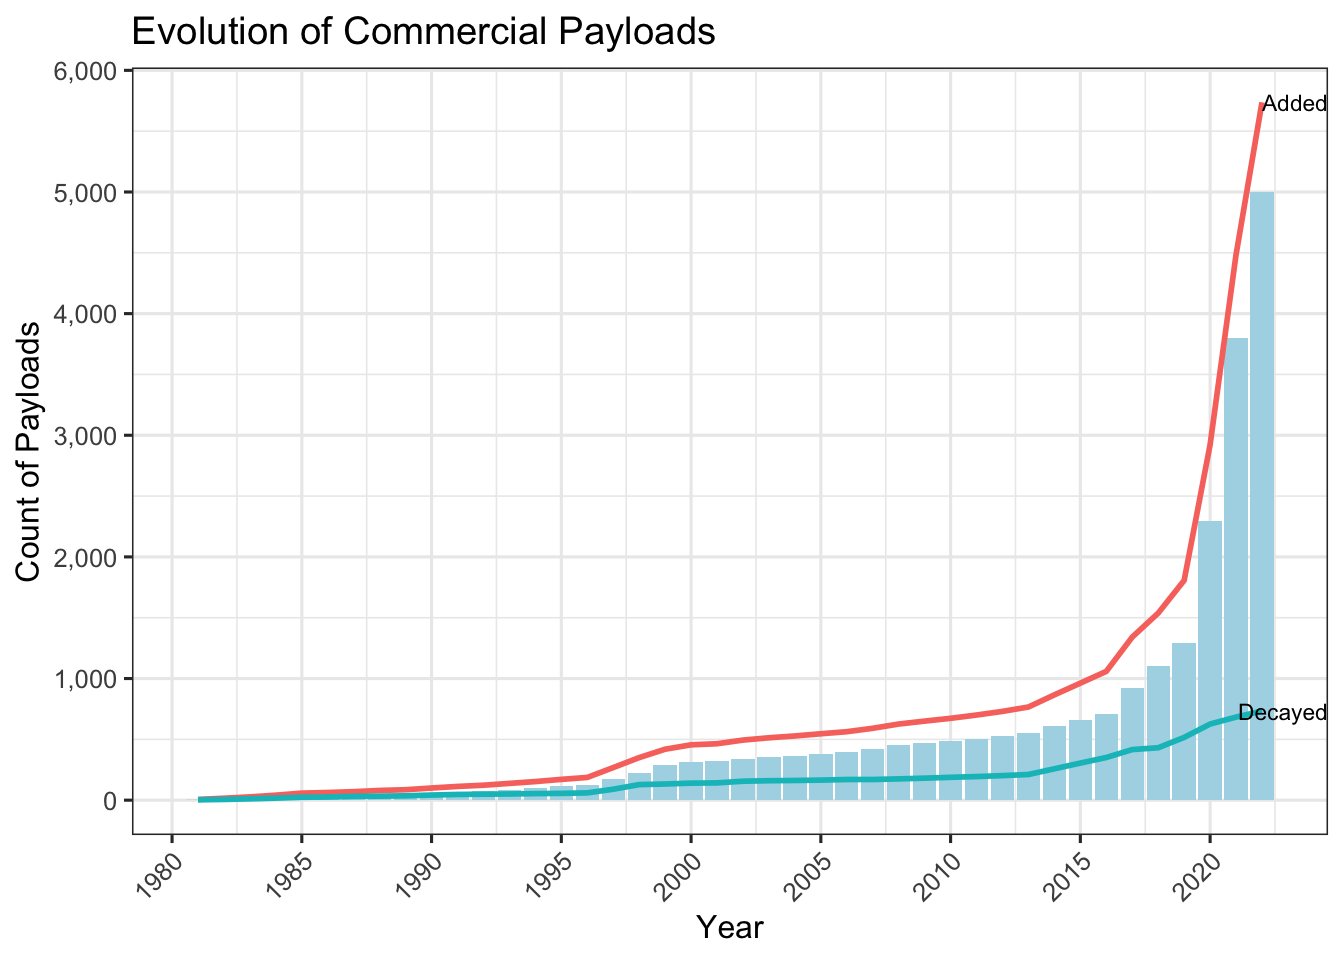
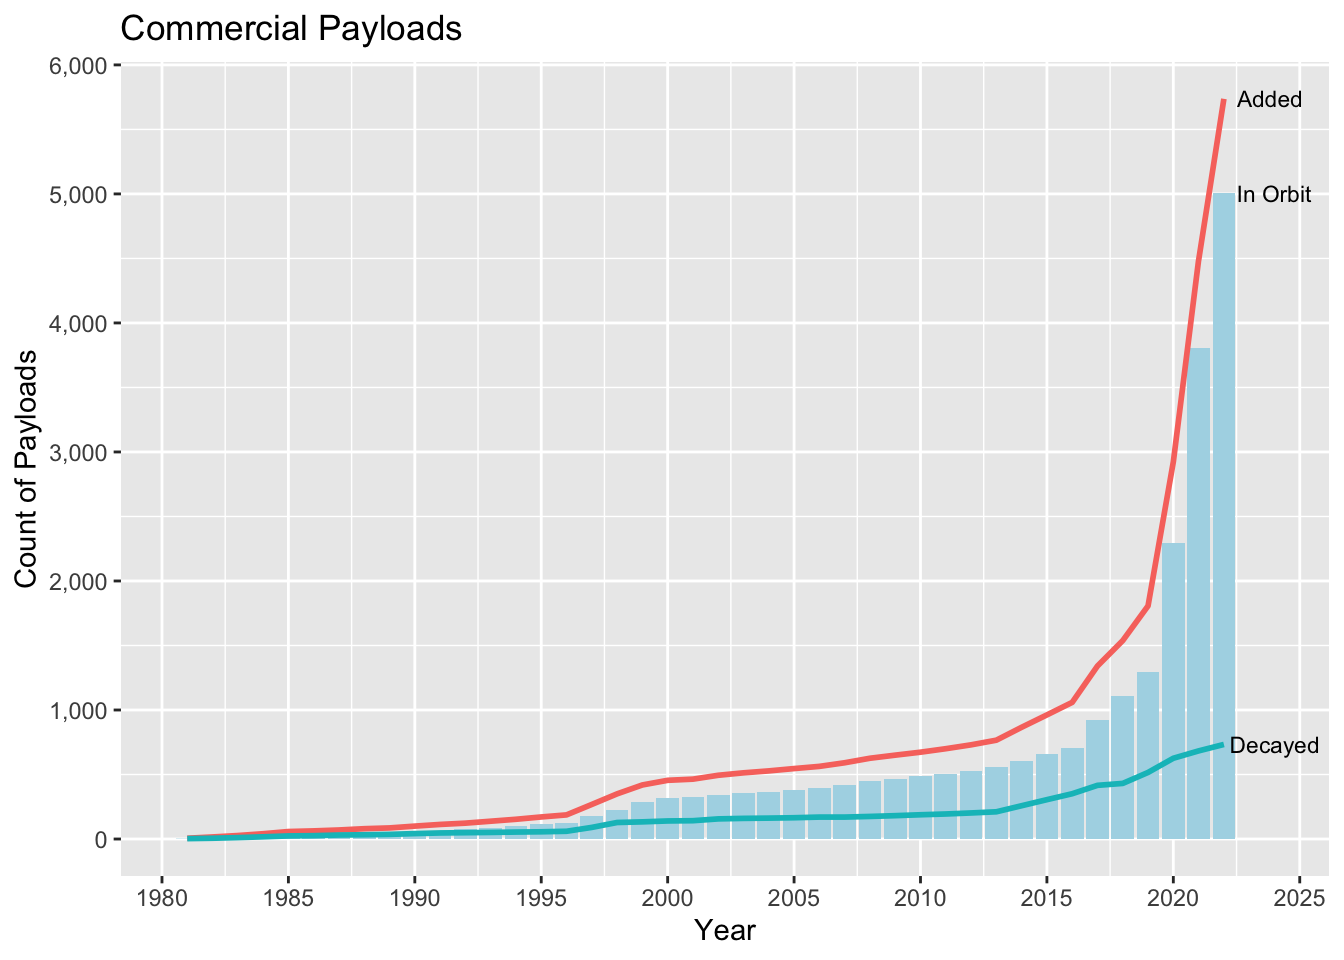
Updated stacat

diff --git a/2022/low-earth-orbits-exploration/index.html b/2022/low-earth-orbits-exploration/index.html
@@ -387,12 +387,12 @@ leo &lt;- leo %&gt;% rename(own = State, JCAT = `#JCAT`)
 ## Read the celestrack catalog as well - this is useful to get periods
 
 dt &lt;- data.table::fread(&quot;~/data/satcat_celestrack.csv&quot;, fill = TRUE, sep = &quot;,&quot;,
-                        colClasses = list(factor=c(&quot;LAUNCH_SITE&quot;, &quot;OBJECT_TYPE&quot;, &quot;OWNER&quot;, &quot;ORBIT_CENTER&quot;, &quot;ORBIT_TYPE&quot;, &quot;OBJECT_NAME&quot;, &quot;OPS_STATUS_CODE&quot;, &quot;DATA_STATUS_CODE&quot;    )))
+                        colClasses = list(factor=c(&quot;LAUNCH_SITE&quot;, &quot;OBJECT_TYPE&quot;, &quot;OWNER&quot;, &quot;ORBIT_CENTER&quot;, &quot;ORBIT_TYPE&quot;, &quot;OBJECT_NAME&quot;, &quot;OPS_STATUS_CODE&quot;, &quot;DATA_STATUS_CODE&quot;	)))
 
 gbd &lt;- as_tibble(dt)</code></pre>
 <pre class="r"><code>#dt &lt;- data.table::fread(&quot;https://celestrak.com/pub/satcat.csv&quot;, fill = TRUE)
 dt &lt;- data.table::fread(&quot;~/data/satcat_celestrack.csv&quot;, fill = TRUE, 
-                        colClasses = list(factor=c(&quot;LAUNCH_SITE&quot;, &quot;OBJECT_TYPE&quot;, &quot;OWNER&quot;, &quot;ORBIT_CENTER&quot;, &quot;ORBIT_TYPE&quot;, &quot;OBJECT_NAME&quot;, &quot;OPS_STATUS_CODE&quot;, &quot;DATA_STATUS_CODE&quot;    )))
+                        colClasses = list(factor=c(&quot;LAUNCH_SITE&quot;, &quot;OBJECT_TYPE&quot;, &quot;OWNER&quot;, &quot;ORBIT_CENTER&quot;, &quot;ORBIT_TYPE&quot;, &quot;OBJECT_NAME&quot;, &quot;OPS_STATUS_CODE&quot;, &quot;DATA_STATUS_CODE&quot;	)))
 
 leo &lt;- as_tibble(dt)
 
@@ -423,122 +423,122 @@ SU = &quot;Sun&quot;,
 UR = &quot;Uranus&quot;,
 VE = &quot;Venus&quot;)
 
-leo$own = recode_factor(leo$OWNER, AB = &quot;Arab Satellite Communications Organization&quot;,
-ABS=    &quot;Asia Broadcast&quot;,
-AC= &quot;ASIASAT&quot;,
-ALG=    &quot;Algeria&quot;,
-ANG=    &quot;Angola&quot;,
-ARGN=   &quot;Argentina&quot;,
-ASRA=   &quot;Austria&quot;,
-AUS=    &quot;Australia&quot;,
-AZER=   &quot;Azerbaijan&quot;,
-BEL=    &quot;Belgium&quot;,
-BELA=   &quot;Belarus&quot;,
-BERM=   &quot;Bermuda&quot;,
-BGD=    &quot;Bangladesh&quot;,
-BHUT=   &quot;Bhutan&quot;,
-BOL=    &quot;Bolivia&quot;,
-BRAZ=   &quot;Brazil&quot;,
-BUL=    &quot;Bulgaria&quot;,
-CA= &quot;Canada&quot;,
-CHBZ=   &quot;China/Brazil&quot;,
-CHLE=   &quot;Chile&quot;,
-CIS=    &quot;Russia&quot;,
-COL=    &quot;Colombia&quot;,
-CRI=    &quot;Costa Rica&quot;,
-CZCH=   &quot;Czech Republic&quot;,
-DEN=    &quot;Denmark&quot;,
-ECU=    &quot;Ecuador&quot;,
-EGYP=   &quot;Egypt&quot;,
-ESA=    &quot;European Space Agency&quot;,
-ESRO=   &quot;European Space Research Org&quot;,
-EST=    &quot;Estonia&quot;,
-EUME=   &quot;EUMETSAT&quot;,
-EUTE=   &quot;EUTELSAT&quot;,
-FGER=   &quot;France/Germany&quot;,
-FIN=    &quot;Finland&quot;,
-FR= &quot;France&quot;,
-FRIT=   &quot;France/Italy&quot;,
-GER=    &quot;Germany&quot;,
-GHA=    &quot;Ghana&quot;,
-GLOB=   &quot;Globalstar&quot;,
-GREC=   &quot;Greece&quot;,
-GRSA=   &quot;Greece/Saudi Arabia&quot;,
-GUAT=   &quot;Guatemala&quot;,
-HUN=    &quot;Hungary&quot;,
-IM= &quot;INMARSAT&quot;,
-IND=    &quot;India&quot;,
-INDO=   &quot;Indonesia&quot;,
-IRAN=   &quot;Iran&quot;,
-IRAQ=   &quot;Iraq&quot;,
-IRID=   &quot;Iridium&quot;,
-ISRA=   &quot;Israel&quot;,
-ISRO=   &quot;Indian Space Research Org&quot;,
-ISS=    &quot;ISS&quot;,
-IT= &quot;Italy&quot;,
-ITSO=   &quot;INTELSAT&quot;,
-JPN=    &quot;Japan&quot;,
-KAZ=    &quot;Kazakhstan&quot;,
-KEN=    &quot;Kenya&quot;,
-LAOS=   &quot;Laos&quot;,
-LKA=    &quot;Sri Lanka&quot;,
-LTU=    &quot;Lithuania&quot;,
-LUXE=   &quot;Luxembourg&quot;,
-MA= &quot;Morroco&quot;,
-MALA=   &quot;Malaysia&quot;,
-MEX=    &quot;Mexico&quot;,
-MMR=    &quot;Myanmar&quot;,
-MNG=    &quot;Mongolia&quot;,
-MUS=    &quot;Mauritius&quot;,
-NATO=   &quot;NATO&quot;,
-NETH=   &quot;Netherlands&quot;,
-NICO=   &quot;New ICO&quot;,
-NIG=    &quot;Nigeria&quot;,
-NKOR=   &quot;North Korea&quot;,
-NOR=    &quot;Norway&quot;,
-NPL=    &quot;Nepal&quot;,
-NZ= &quot;New Zealand&quot;,
-O3B=    &quot;O3b Networks&quot;,
-ORB=    &quot;ORBCOMM&quot;,
-PAKI=   &quot;Pakistan&quot;,
-PERU=   &quot;Peru&quot;,
-POL=    &quot;Poland&quot;,
-POR=    &quot;Portugal&quot;,
-PRC=    &quot;China&quot;,
-PRY=    &quot;Paraguay&quot;,
-PRES=   &quot;China/ESA&quot;,
-QAT=    &quot;Qatar&quot;,
-RASC=   &quot;RascomStar-QAF&quot;,
-ROC=    &quot;Taiwan&quot;,
-ROM=    &quot;Romania&quot;,
-RP= &quot;Philippines&quot;,
-RWA=    &quot;Rwanda&quot;,
-SAFR=   &quot;South Africa&quot;,
-SAUD=   &quot;Saudi Arabia&quot;,
-SDN=    &quot;Sudan&quot;,
-SEAL=   &quot;Sea Launch&quot;,
-SES=    &quot;SES&quot;,
-SGJP=   &quot;Singapore/Japan&quot;,
-SING=   &quot;Singapore&quot;,
-SKOR=   &quot;SouthKorea&quot;,
-SPN=    &quot;Spain&quot;,
-STCT=   &quot;Singapore/Taiwan&quot;,
-SVN=    &quot;Slovenia&quot;,
-SWED=   &quot;Sweden&quot;,
-SWTZ=   &quot;Switzerland&quot;,
-TBD=    &quot;TBD&quot;,
-THAI=   &quot;Thailand&quot;,
-TMMC=   &quot;Turkmenistan/Monaco&quot;,
-TUN=    &quot;Tunisia&quot;,
-TURK=   &quot;Turkey&quot;,
-UAE=    &quot;UAE&quot;,
-UK= &quot;United Kingdom&quot;,
-UKR=    &quot;Ukraine&quot;,
-UNK=    &quot;Unknown&quot;,
-URY=    &quot;Uruguay&quot;,
-US= &quot;United States&quot;,
-USBZ=   &quot;United States/Brazil&quot;,
-VENZ=   &quot;Venezuela&quot;,
+leo$own = recode_factor(leo$OWNER, AB =	&quot;Arab Satellite Communications Organization&quot;,
+ABS=	&quot;Asia Broadcast&quot;,
+AC=	&quot;ASIASAT&quot;,
+ALG=	&quot;Algeria&quot;,
+ANG=	&quot;Angola&quot;,
+ARGN=	&quot;Argentina&quot;,
+ASRA=	&quot;Austria&quot;,
+AUS=	&quot;Australia&quot;,
+AZER=	&quot;Azerbaijan&quot;,
+BEL=	&quot;Belgium&quot;,
+BELA=	&quot;Belarus&quot;,
+BERM=	&quot;Bermuda&quot;,
+BGD=	&quot;Bangladesh&quot;,
+BHUT=	&quot;Bhutan&quot;,
+BOL=	&quot;Bolivia&quot;,
+BRAZ=	&quot;Brazil&quot;,
+BUL=	&quot;Bulgaria&quot;,
+CA=	&quot;Canada&quot;,
+CHBZ=	&quot;China/Brazil&quot;,
+CHLE=	&quot;Chile&quot;,
+CIS=	&quot;Russia&quot;,
+COL=	&quot;Colombia&quot;,
+CRI=	&quot;Costa Rica&quot;,
+CZCH=	&quot;Czech Republic&quot;,
+DEN=	&quot;Denmark&quot;,
+ECU=	&quot;Ecuador&quot;,
+EGYP=	&quot;Egypt&quot;,
+ESA=	&quot;European Space Agency&quot;,
+ESRO=	&quot;European Space Research Org&quot;,
+EST=	&quot;Estonia&quot;,
+EUME=	&quot;EUMETSAT&quot;,
+EUTE=	&quot;EUTELSAT&quot;,
+FGER=	&quot;France/Germany&quot;,
+FIN=	&quot;Finland&quot;,
+FR=	&quot;France&quot;,
+FRIT=	&quot;France/Italy&quot;,
+GER=	&quot;Germany&quot;,
+GHA=	&quot;Ghana&quot;,
+GLOB=	&quot;Globalstar&quot;,
+GREC=	&quot;Greece&quot;,
+GRSA=	&quot;Greece/Saudi Arabia&quot;,
+GUAT=	&quot;Guatemala&quot;,
+HUN=	&quot;Hungary&quot;,
+IM=	&quot;INMARSAT&quot;,
+IND=	&quot;India&quot;,
+INDO=	&quot;Indonesia&quot;,
+IRAN=	&quot;Iran&quot;,
+IRAQ=	&quot;Iraq&quot;,
+IRID=	&quot;Iridium&quot;,
+ISRA=	&quot;Israel&quot;,
+ISRO=	&quot;Indian Space Research Org&quot;,
+ISS=	&quot;ISS&quot;,
+IT=	&quot;Italy&quot;,
+ITSO=	&quot;INTELSAT&quot;,
+JPN=	&quot;Japan&quot;,
+KAZ=	&quot;Kazakhstan&quot;,
+KEN=	&quot;Kenya&quot;,
+LAOS=	&quot;Laos&quot;,
+LKA=	&quot;Sri Lanka&quot;,
+LTU=	&quot;Lithuania&quot;,
+LUXE=	&quot;Luxembourg&quot;,
+MA=	&quot;Morroco&quot;,
+MALA=	&quot;Malaysia&quot;,
+MEX=	&quot;Mexico&quot;,
+MMR=	&quot;Myanmar&quot;,
+MNG=	&quot;Mongolia&quot;,
+MUS=	&quot;Mauritius&quot;,
+NATO=	&quot;NATO&quot;,
+NETH=	&quot;Netherlands&quot;,
+NICO=	&quot;New ICO&quot;,
+NIG=	&quot;Nigeria&quot;,
+NKOR=	&quot;North Korea&quot;,
+NOR=	&quot;Norway&quot;,
+NPL=	&quot;Nepal&quot;,
+NZ=	&quot;New Zealand&quot;,
+O3B=	&quot;O3b Networks&quot;,
+ORB=	&quot;ORBCOMM&quot;,
+PAKI=	&quot;Pakistan&quot;,
+PERU=	&quot;Peru&quot;,
+POL=	&quot;Poland&quot;,
+POR=	&quot;Portugal&quot;,
+PRC=	&quot;China&quot;,
+PRY=	&quot;Paraguay&quot;,
+PRES=	&quot;China/ESA&quot;,
+QAT=	&quot;Qatar&quot;,
+RASC=	&quot;RascomStar-QAF&quot;,
+ROC=	&quot;Taiwan&quot;,
+ROM=	&quot;Romania&quot;,
+RP=	&quot;Philippines&quot;,
+RWA=	&quot;Rwanda&quot;,
+SAFR=	&quot;South Africa&quot;,
+SAUD=	&quot;Saudi Arabia&quot;,
+SDN=	&quot;Sudan&quot;,
+SEAL=	&quot;Sea Launch&quot;,
+SES=	&quot;SES&quot;,
+SGJP=	&quot;Singapore/Japan&quot;,
+SING=	&quot;Singapore&quot;,
+SKOR=	&quot;SouthKorea&quot;,
+SPN=	&quot;Spain&quot;,
+STCT=	&quot;Singapore/Taiwan&quot;,
+SVN=	&quot;Slovenia&quot;,
+SWED=	&quot;Sweden&quot;,
+SWTZ=	&quot;Switzerland&quot;,
+TBD=	&quot;TBD&quot;,
+THAI=	&quot;Thailand&quot;,
+TMMC=	&quot;Turkmenistan/Monaco&quot;,
+TUN=	&quot;Tunisia&quot;,
+TURK=	&quot;Turkey&quot;,
+UAE=	&quot;UAE&quot;,
+UK=	&quot;United Kingdom&quot;,
+UKR=	&quot;Ukraine&quot;,
+UNK=	&quot;Unknown&quot;,
+URY=	&quot;Uruguay&quot;,
+US=	&quot;United States&quot;,
+USBZ=	&quot;United States/Brazil&quot;,
+VENZ=	&quot;Venezuela&quot;,
 VTNM= &quot;Vietnam&quot;)
 
 
@@ -749,9 +749,10 @@ leo %&gt;%
   geom_line(aes(y=cum_added, color = &quot;added&quot;), size = 1, show.legend = F) +
   geom_line(aes(y=cum_decayed, color = &quot;decayed&quot;), size = 1, show.legend = F) +
   
-  labs(title = &quot;Evolution of Commercial Payloads&quot;, x = &#39;Year&#39;, y = &quot;Count of Payloads&quot;, fill = &quot;&quot;)  +
+  labs(title = &quot;Commercial Payloads&quot;, x = &#39;Year&#39;, y = &quot;Count of Payloads&quot;, fill = &quot;&quot;)  +
   geom_text_repel( data = (. %&gt;% drop_na() %&gt;% filter(separation_year == max(separation_year)) %&gt;% slice_tail() ),  aes(label = &quot;Added&quot;, x = separation_year, y = cum_added, ), hjust = 1, nudge_x = 2, direction = &quot;x&quot;, size = 3, segment.color =  &quot;grey&quot;, show.legend = F) +
   geom_text_repel( data = (. %&gt;% drop_na() %&gt;% filter(separation_year == max(separation_year)) %&gt;% slice_tail() ),  aes(label = &quot;Decayed&quot;, x = separation_year, y = cum_decayed, ), hjust = 1, nudge_x = 2, direction = &quot;x&quot;, size = 3, segment.color =  &quot;grey&quot;, show.legend = F) +
+  geom_text_repel( data = (. %&gt;% drop_na() %&gt;% filter(separation_year == max(separation_year)) %&gt;% slice_tail() ),  aes(label = &quot;In Orbit&quot;, x = separation_year, y = cum_net, ), hjust = 1, nudge_x = 2, direction = &quot;x&quot;, size = 3, segment.color =  &quot;grey&quot;, show.legend = F) +
   
   scale_x_continuous(breaks = scales::breaks_pretty(10)) +
   scale_y_continuous(breaks = scales::breaks_pretty(8), labels = comma)</code></pre>
@@ -794,7 +795,7 @@ leo %&gt;%
   filter(OBJECT_TYPE == &quot;Payload&quot;, separation_year &gt; 2014) %&gt;% 
   count(separation_year, LAUNCH_DATE) %&gt;% 
   filter(n &gt; 1) %&gt;% 
-  
+
   ggplot(aes(x=as.factor(separation_year), y = n)) +
   #ggridges::geom_density_ridges(aes(x = n, y = as.character(separation_year), fill = separation_year), rel_min_height = 0.001, scale = 1.5, show.legend = FALSE, quantile_lines = TRUE)
   #geom_violin(color = &quot;gray&quot;) + 
@@ -826,7 +827,7 @@ leo %&gt;%
 
 ggplot(data = evolution_owner %&gt;% filter(OBJECT_TYPE == &quot;Debris&quot;, ), aes(x=separation_year)) +
   geom_col(aes(y=added , fill = own), group = &quot;own&quot;, stat=&quot;identity&quot;, position = &quot;stack&quot;) +
-  labs(title = &quot;Debris by Year&quot;, x = &#39;&#39;, y = &quot;Count of Debris&quot;, fill = &quot;&quot;) +
+  labs(title = &quot;Debris in Orbit by Year Created&quot;, x = &#39;&#39;, y = &quot;Count of Debris&quot;, fill = &quot;&quot;) +
   
   scale_y_continuous(labels = comma) +
   scale_x_continuous(breaks = scales::breaks_pretty(10)) +
@@ -1041,7 +1042,7 @@ leo %&gt;%
 <p>These are useful to understand breakup events and we will create one such diagram for the Cosmos 1408 breakup event. Surprisingly, Jonathan’s satcat does not seem to have the period of these objects and this is an essential piece of data for this diagram. We’ll use the satcat from celestrack for this.</p>
 <div id="cosmos-1408" class="section level3">
 <h3>Cosmos 1408</h3>
-<p>This figure shows the Gabbard diagram for Cosmos 1405 as of 2022-10-28.</p>
+<p>This figure shows the Gabbard diagram for Cosmos 1405 as of 2023-04-16.</p>
 <pre class="r"><code>gbd %&gt;% 
   filter(OBJECT_NAME %in% c(&quot;COSMOS 1408&quot;, &quot;COSMOS 1408 DEB&quot;),  is.na(DECAY_DATE)) %&gt;% 
   ggplot(aes(x = PERIOD)) +
